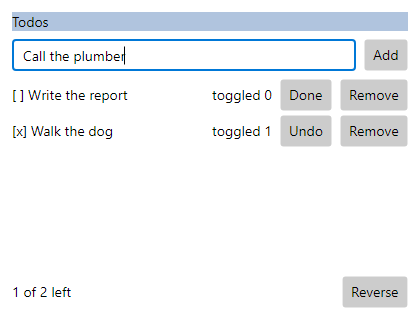
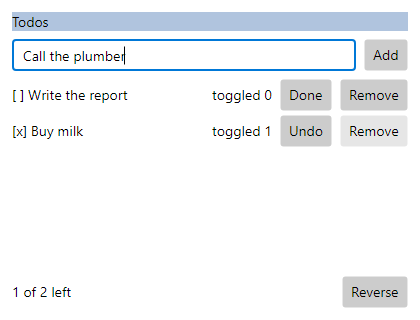
test(#2): two tests that stayed green with their behaviour broken
Proving the tests found them: the todo example's completed row was the middle one,
which a 3-item reverse leaves in place, so a positional diff kept it too (it now
completes the first row, which moves to the end); and the FlexElement skip test
counted skips that its unchanged child also produced (it now checks which element
the panel was last updated with).

Changed region(s): [[0.8048, 0.3438, 0.9905, 0.4688], [0.0619, 0.375, 0.2786, 0.4375]]

diff --git a/tests/Isotope.UI.Avalonia.Tests/ExampleTests.cs b/tests/Isotope.UI.Avalonia.Tests/ExampleTests.cs
@@ -101,18 +101,18 @@ public sealed class ExampleTests : IDisposable
         Assert.Same(box, All<TextBox>(host)[0]);
         Assert.Equal(["[ ] Buy milk", "[ ] Walk the dog", "[ ] Write the report"], RowTitles(host));
 
-        Click(window, ButtonLabelled(host, "Done", 1)); // Walk the dog
-        Assert.Equal("[x] Walk the dog", RowTitles(host)[1]);
+        Click(window, ButtonLabelled(host, "Done", 0)); // Buy milk
+        Assert.Equal("[x] Buy milk", RowTitles(host)[0]);
         Assert.Contains("2 of 3 left", Texts(host));
-        var walkRow = RowOf(host, "Walk the dog");
+        var milkRow = RowOf(host, "Buy milk");
 
         Click(window, ButtonLabelled(host, "Reverse"));
-        Assert.Equal(["[ ] Write the report", "[x] Walk the dog", "[ ] Buy milk"], RowTitles(host));
-        Assert.Same(walkRow, RowOf(host, "Walk the dog")); // the keyed row moved, with its controls
-        Assert.Equal("toggled 1", RowTexts(walkRow)[1]); // and its own state
+        Assert.Equal(["[ ] Write the report", "[ ] Walk the dog", "[x] Buy milk"], RowTitles(host));
+        Assert.Same(milkRow, RowOf(host, "Buy milk")); // the keyed row moved from first to last, with its controls
+        Assert.Equal("toggled 1", RowTexts(milkRow)[1]); // and its own state
 
-        Click(window, ButtonLabelled(host, "Remove", 2)); // Buy milk
-        Assert.Equal(["[ ] Write the report", "[x] Walk the dog"], RowTitles(host));
+        Click(window, ButtonLabelled(host, "Remove", 1)); // Walk the dog
+        Assert.Equal(["[ ] Write the report", "[x] Buy milk"], RowTitles(host));
         Assert.Contains("1 of 2 left", Texts(host));
 
         Type(window, box, "Call the plumber"); // a draft, shown in the capture

diff --git a/tests/Isotope.UI.Avalonia.Tests/FlexElementTests.cs b/tests/Isotope.UI.Avalonia.Tests/FlexElementTests.cs
@@ -145,18 +145,24 @@ public sealed class FlexElementTests : IDisposable
     [AvaloniaFact]
     public void An_equal_FlexElement_is_skipped_and_a_changed_one_is_not()
     {
+        // A skipped element is never applied, so the panel keeps the element it was last updated with.
         var children = new Element[] { Text("a") };
         var gap = 3.0;
-        var host = new TestHost(() => VStack(new FlexElement(children) { ColumnGap = gap }));
+        var rendered = new List<FlexElement>();
+        var host = new TestHost(() =>
+        {
+            var flex = new FlexElement(children) { ColumnGap = gap };
+            rendered.Add(flex);
+            return VStack(flex);
+        });
         var panel = host.All<FlexPanel>()[0];
 
-        var skipped = host.Reconciler.DebugElementsSkipped;
         host.Render(); // a new, equal FlexElement
-        Assert.Equal(skipped + 1, host.Reconciler.DebugElementsSkipped);
+        Assert.Same(rendered[0], Reconciler.GetMountedElement(panel));
 
         gap = 4;
         host.Render();
-        Assert.Equal(skipped + 2, host.Reconciler.DebugElementsSkipped); // the panel updates; only its unchanged child skips
+        Assert.Same(rendered[2], Reconciler.GetMountedElement(panel));
         Assert.Same(panel, host.All<FlexPanel>()[0]);
         Assert.Equal(4, panel.ColumnGap);
     }

diff --git a/docs/spikes/G-vertical-slice.md b/docs/spikes/G-vertical-slice.md
@@ -70,7 +70,7 @@ would (`DispatcherHost`). The counter renders once per click (4 renders for 3 cl
 
 ![The counter after three clicks](img/G-counter.png)
 
-![The todo app after adding three items, completing one, reversing and removing one](img/G-todo.png)
+![The todo app after adding three items, completing the first, reversing and removing one](img/G-todo.png)
 
 The PNGs are the tests' captures, copied from the test output folder.
 
